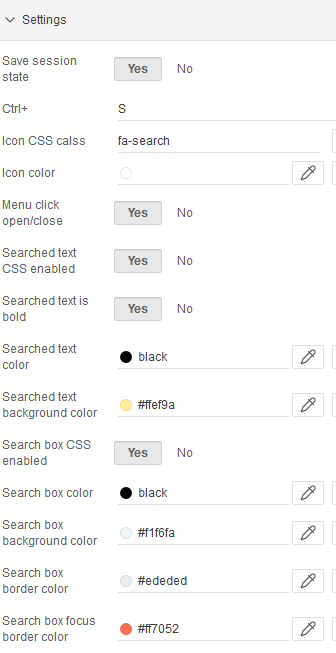
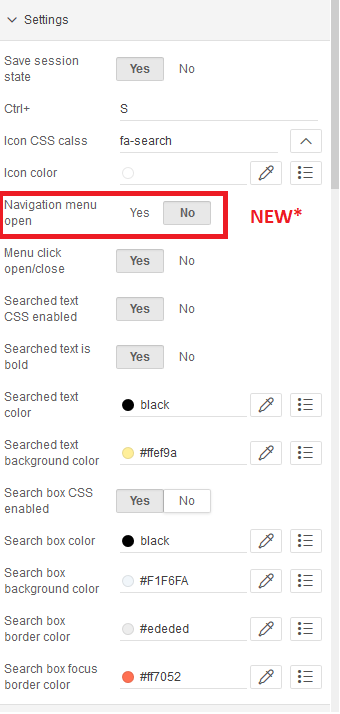
Release 1.1

diff --git a/docs/searchNavMenu.js b/docs/searchNavMenu.js
@@ -1,27 +1,32 @@
 /*! searchNavMenu.js v1.0 | ABAKUS PLUS d.o.o. | Andrej Grlica | andrej.grlica@abakus.si */
 /* ==========================================================================
-   Version : 1.0
+   Version : 1.1
    -------------------------------------------------------------------------------
-   Date : 05.08.2017
-   -------------------------------------------------------------------------------
+   Date Updated : 11.08.2017
+   -----------------------------------------------------
    Description
 	Script is used for Searching Navigation Menu in Oracle Application Express
    -------------------------------------------------------------------------------
    Parametrs : 
      item_id : item id from apex
- 
+     menuOpen : (is menu on load open) true/false
+	 elm : object
+	 e: event
+	 ajaxIdentifier: name of ajax call function
+	 l_skey : character keypress focus on search
 */ 
 
 var SrchNavMenuClosed = false;
 
-
-function LoadSearchNavSubmenu(item_id) {
-	if (!$("#t_Button_navControl").hasClass("is-active"))
+function LoadSearchNavSubmenu(item_id, menuOpen) {
+	if (!apex.theme42.toggleWidgets.isExpanded("nav"))
 		SrchNavMenuClosed=true;
     openAllNavSubmenus();
 	$('li[id^="t_TreeNav"].is-collapsible').find('span.a-TreeView-toggle').click(); 
 	//Because all list were open and last one closed we need to open current list
 	setCurrentNav(item_id);
+	if (menuOpen)
+		$('li[id^="t_TreeNav"]').find("ul").css("display", "block");
 }
 
 function openAllNavSubmenus(elm) {
@@ -45,8 +50,8 @@ function setCurrentNav(item_id) {
            $(this).find("div.a-TreeView-row").removeClass("is-selected");
     });
 	if (SrchNavMenuClosed)
-		$("#t_Button_navControl").click();
-	else
+		$('#t_Button_navControl').click();
+    else
 		showHideSearchBar(item_id);
 }
 
@@ -56,27 +61,23 @@ function saveSesSateNav(ajaxIdentifier, newVal) {
     }, {dataType:"text", 
        success: function( pData ) {
          apex.debug.info("Saved session state."); 
-		 console.log("Saved session state."+JSON.stringify(pData)); 
        },
        error: function( pData ) {
          apex.debug.error("Save session state for Search Navigation failed :"+JSON.stringify(pData) ); 
-		 console.log("Save session state for Search Navigation failed :"+JSON.stringify(pData) ); 
        }	   
     }); 
 }
 
 	   
 function showHideSearchBar(item_id) {
-  if ($("#t_Button_navControl").hasClass("is-active")) {
+  if (apex.theme42.toggleWidgets.isExpanded("nav")) {
     $('div[id="'+item_id+'"]').show();
-    $('input.srch_input').trigger("keyup");
-	SrchNavMenuClosed = false;
+    $('input.srch_input').trigger("keyup", [true]);
   }
   else {
-	$('input.srch_input').trigger("keyup");
+	$('input.srch_input').trigger("keyup", [true]);
     $('div[id="'+item_id+'"]').hide();  
     $('li[id^="t_TreeNav"].is-expandable').find("ul").css("display", "none");
-	SrchNavMenuClosed = true;
   }
 }
 
@@ -149,9 +150,11 @@ function keyDownSearchNav(e) {
 		   }
 }
 
-function keyUpSearchNav(elm, e, ajaxIdentifier, save_ss) {
+//elm= input, e=event, ajaxIdentifier=name of ajaxProcedure, save_ss parameter on/off, paegeEvent=keyup of hide/show
+function keyUpSearchNav(elm, e, ajaxIdentifier, save_ss, pageEvent) {
 	switch (e.which) {
 	   case 13:
+	   case 17:
 	   case 40:
 	   case 38:
 		   e.preventDefault();
@@ -180,7 +183,7 @@ function keyUpSearchNav(elm, e, ajaxIdentifier, save_ss) {
 			  $(this).css("display", "block");
 		   });
 		}        
-		if (save_ss)
+		if (save_ss && !pageEvent)
 			saveSesSateNav(ajaxIdentifier,elmVal); 
 		hoverSearchNav();
 	}    
@@ -188,8 +191,8 @@ function keyUpSearchNav(elm, e, ajaxIdentifier, save_ss) {
 		 
 function shortCutSearchNav(e, l_skey) {
 	if(e.ctrlKey && e.keyCode === l_skey.charCodeAt(0)){ 
-		if (SrchNavMenuClosed)
-			$("#t_Button_navControl").click();
+		if (!apex.theme42.toggleWidgets.isExpanded("nav"))
+			$('#t_Button_navControl').click();
 		var tmp = $("input.srch_input").val();
 		$("input.srch_input").focus().val(tmp);
 		e.preventDefault();
